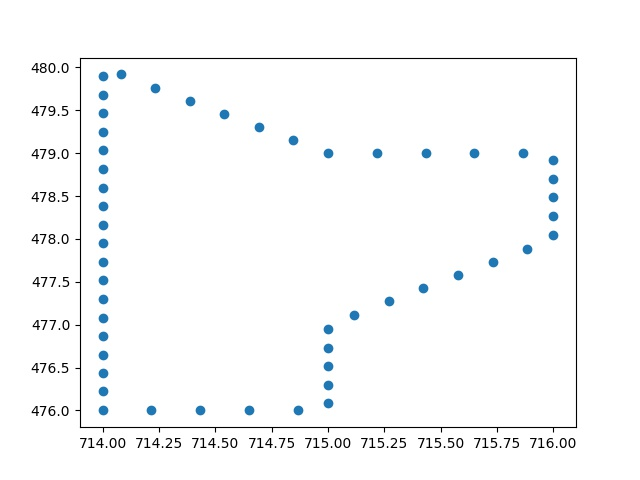
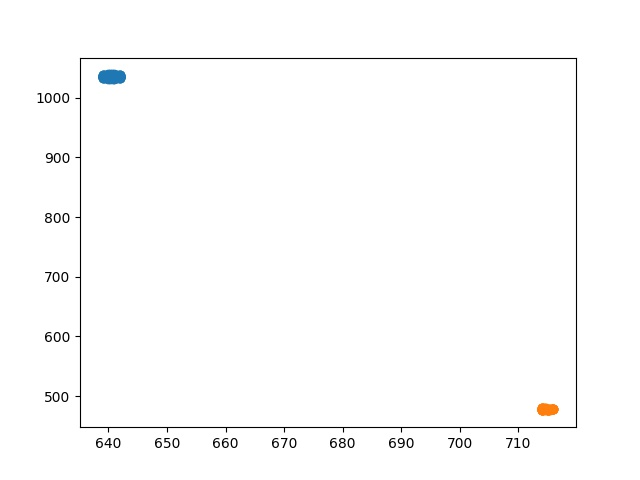
imported class

diff --git a/src/Instruction.py b/src/Instruction.py
@@ -1,0 +1,24 @@
+import matplotlib.pyplot as plt
+
+class Instruction:
+
+    def __init__(self, instruct):
+        self.instruct = instruct
+        self.instruct_first_x = list(instruct[0][0])
+        self.instruct_first_y = list(instruct[0][1])
+
+    def get_instruction_sizes(self):
+        print("Number of instructions: ")
+        print(len(self.instruct))
+
+    def get_instruction_lengths(self):
+        for count, instruction in enumerate(self.instruct, 0):
+            print("Instruction set %d x and y lengths", count)
+            print(len(instruction[0]))
+            print(len(instruction[1]))
+    
+    def plot_first_instruction(self):
+        plt.figure(100)
+        plt.scatter(self.instruct_first_x, self.instruct_first_y)
+        plt.savefig("first_instruction.jpg")
+        plt.close

diff --git a/test_scalp.py b/test_scalp.py
@@ -14,6 +14,7 @@ import matplotlib.pyplot as plt
 import cv2
 import cmd
 from pyfiglet import Figlet
+from src import Instruction as ins
 
 
 def main():
@@ -27,8 +28,13 @@ def main():
     else: 
         print("not empty")
     instruction_set = get_contour_instructions_per_frame()
-    set_instruction_for_video(instruct = instruction_set)
-    
+    print(instruction_set)
+    scalp_instruction = ins.Instruction(instruct=instruction_set)
+    scalp_instruction.get_instruction_sizes()
+    scalp_instruction.get_instruction_lengths()
+    scalp_instruction.plot_first_instruction()
+    # set_instruction_for_video(instruct = instruction_set)
+
 
 def get_frames_from_video():
     cap = cv2.VideoCapture("./media/ball.mp4")
